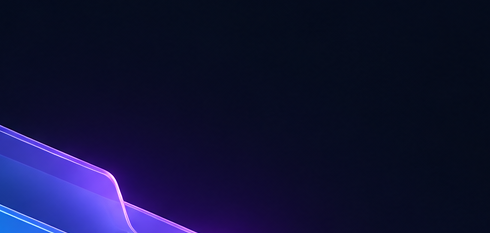
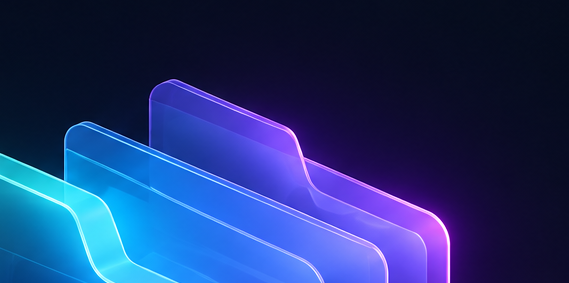
Rename platform to StackSync across frontend, backend, and documentation

diff --git a/frontend/src/app/help/page.tsx b/frontend/src/app/help/page.tsx
@@ -83,7 +83,7 @@ export default function HelpPage() {
               <span>Multi-Tier 3× EC2 Architecture Overview</span>
             </h2>
             <p style={{ color: "#94a3b8", fontSize: "14px", lineHeight: "1.6", marginBottom: "20px" }}>
-              MiniAWS is engineered on a distributed 3-tier enterprise cloud topology deployed across AWS EC2 instances in the <code>eu-central-1</code> (Frankfurt) region:
+              StackSync is engineered on a distributed 3-tier enterprise cloud topology deployed across AWS EC2 instances in the <code>eu-central-1</code> (Frankfurt) region:
             </p>
 
             <div style={{ display: "grid", gridTemplateColumns: "repeat(3, 1fr)", gap: "16px" }}>
@@ -160,7 +160,7 @@ export default function HelpPage() {
               <span>Connecting via Windows Remote Desktop (XRDP GUI)</span>
             </h2>
             <p style={{ color: "#94a3b8", fontSize: "14px", lineHeight: "1.6", marginBottom: "20px" }}>
-              Every EC2 instance in MiniAWS has been provisioned with the ultra-responsive, lightweight <strong>XFCE 4.18 Desktop Environment</strong> and configured with <strong>XRDP</strong> listening on port <code>3389</code>.
+              Every EC2 instance in StackSync has been provisioned with the ultra-responsive, lightweight <strong>XFCE 4.18 Desktop Environment</strong> and configured with <strong>XRDP</strong> listening on port <code>3389</code>.
             </p>
 
             {/* Credentials Banner */}

diff --git a/frontend/src/app/web-hosting/page.tsx b/frontend/src/app/web-hosting/page.tsx
@@ -37,7 +37,7 @@ const DEFAULT_SAMPLE_HTML = `<!DOCTYPE html>
 <html lang="en">
 <head>
   <meta charset="UTF-8">
-  <title>Welcome to Mini AWS Hosted Site</title>
+  <title>Welcome to StackSync Hosted Site</title>
   <style>
     body {
       background: #090e1a;
@@ -76,7 +76,7 @@ const DEFAULT_SAMPLE_HTML = `<!DOCTYPE html>
   </style>
 </head>
 <body>
-  <div class="badge">🚀 Hosted on Mini AWS Data Tier</div>
+  <div class="badge">🚀 Hosted on StackSync Data Tier</div>
   <h1>Hello from Cloud Static Hosting!</h1>
   <p>This static website is served directly from Nginx running on EC2 Instance 2 (Data Tier) with instant deployment.</p>
 </body>
@@ -385,7 +385,7 @@ export default function WebHostingPage() {
         >
           <img
             src="/web-hosting-3d-graphic.png"
-            alt="MiniAWS Web Hosting"
+            alt="StackSync Web Hosting"
             style={{
               height: "115px",
               objectFit: "contain",
@@ -635,7 +635,7 @@ export default function WebHostingPage() {
                 websites.map((site) => {
                   const isMenuOpen = actionMenuOpenId === site.id;
                   const isCopied = copiedId === site.id;
-                  const siteUrl = site.domain_url || site.site_url || `https://${site.subdomain}.miniaws.cloud`;
+                  const siteUrl = site.domain_url || site.site_url || `https://${site.subdomain}.stacksync.cloud`;
 
                   return (
                     <div

diff --git a/frontend/src/app/login/page.tsx b/frontend/src/app/login/page.tsx
@@ -75,7 +75,7 @@ export default function LoginPage() {
             }}
           >
             <Sparkles size={14} className="spin-slow" />
-            <span>MiniAWS Multi-Cloud Fabric • eu-central-1</span>
+            <span>StackSync Multi-Cloud Fabric • eu-central-1</span>
           </div>
 
           <h1
@@ -247,7 +247,7 @@ export default function LoginPage() {
               <Cloud size={30} color="#38bdf8" />
             </div>
             <h2 style={{ fontSize: "24px", fontWeight: 800, color: "#fff", letterSpacing: "-0.02em" }}>
-              Sign in to Mini AWS
+              Sign in to StackSync
             </h2>
             <p style={{ color: "#94a3b8", fontSize: "13px", marginTop: "4px" }}>
               Enter your tenant credentials to access the cloud console
@@ -348,7 +348,7 @@ export default function LoginPage() {
 
           {/* Register Link */}
           <div style={{ marginTop: "22px", textAlign: "center", fontSize: "13px", color: "#94a3b8" }}>
-            Don't have a MiniAWS tenant account?{" "}
+            Don't have a StackSync tenant account?{" "}
             <Link href="/register" style={{ color: "#38bdf8", fontWeight: 700, textDecoration: "none" }}>
               Create an account →
             </Link>

diff --git a/frontend/src/app/settings/page.tsx b/frontend/src/app/settings/page.tsx
@@ -63,7 +63,7 @@ export default function SettingsPage() {
 
   const currentUser = user || {
     full_name: "Abhishek Hardaha",
-    email: "abhishek@miniaws.cloud",
+    email: "abhishek@stacksync.cloud",
     username: "abhishek",
     id: "usr_cloud_admin"
   };
@@ -239,7 +239,7 @@ export default function SettingsPage() {
             <h3 style={{ fontSize: "16px", fontWeight: 700, color: "#fff" }}>API Access Token (JWT)</h3>
           </div>
           <p style={{ fontSize: "12px", color: "#94a3b8", lineHeight: "1.5", marginBottom: "16px" }}>
-            Use this bearer token to authenticate programmatic REST API calls to the MiniAWS gateway from external scripts or CLI.
+            Use this bearer token to authenticate programmatic REST API calls to the StackSync gateway from external scripts or CLI.
           </p>
 
           <div

diff --git a/frontend/src/app/functions/page.tsx b/frontend/src/app/functions/page.tsx
@@ -35,7 +35,7 @@ const TEMPLATES: Record<string, string> = {
     total = sum(data)
     average = total / len(data) if data else 0
     
-    print(f"MiniAWS Runner: Processing batch of {len(data)} items")
+    print(f"StackSync Runner: Processing batch of {len(data)} items")
     print(f"Calculated Total: {total}, Average: {average:.2f}")
     
     return {
@@ -76,7 +76,7 @@ const TEMPLATES: Record<string, string> = {
     print(f"Incoming {http_method} request for user: {name}")
     
     return {
-        "message": f"Hello, {name}! Welcome to Mini AWS Serverless.",
+        "message": f"Hello, {name}! Welcome to StackSync Serverless.",
         "method": http_method,
         "received_params": params
     }`,

diff --git a/frontend/src/components/Topbar.tsx b/frontend/src/components/Topbar.tsx
@@ -53,7 +53,7 @@ export default function Topbar() {
           className="search-input"
           onKeyDown={(e) => {
             if (e.key === "Enter") {
-              alert(`Searching Mini AWS resources for: "${(e.target as HTMLInputElement).value}"`);
+              alert(`Searching StackSync resources for: "${(e.target as HTMLInputElement).value}"`);
             }
           }}
         />

diff --git a/frontend/src/app/register/page.tsx b/frontend/src/app/register/page.tsx
@@ -241,7 +241,7 @@ export default function RegisterPage() {
               Create Cloud Account
             </h2>
             <p style={{ color: "#94a3b8", fontSize: "13px", marginTop: "4px" }}>
-              Provision your isolated developer workspace on Mini AWS
+              Provision your isolated developer workspace on StackSync
             </p>
           </div>
 

diff --git a/frontend/src/app/layout.tsx b/frontend/src/app/layout.tsx
@@ -2,8 +2,8 @@ import "@/styles/globals.css";
 import AppShell from "@/components/AppShell";
 
 export const metadata = {
-  title: "Mini AWS Cloud Platform",
-  description: "Lightweight Multi-Tier Cloud Console on AWS EC2",
+  title: "StackSync Cloud Platform",
+  description: "StackSync Multi-Tier Cloud Console on AWS EC2",
 };
 
 export default function RootLayout({

diff --git a/frontend/src/app/storage/page.tsx b/frontend/src/app/storage/page.tsx
@@ -352,7 +352,7 @@ export default function StoragePage() {
         >
           <img
             src="/storage-3d-folders.png"
-            alt="MiniAWS Storage"
+            alt="StackSync Storage"
             style={{
               height: "115px",
               objectFit: "contain",

diff --git a/frontend/src/lib/api.ts b/frontend/src/lib/api.ts
@@ -1,4 +1,4 @@
-// API Client for MiniAWS Console
+// API Client for StackSync Console
 
 const API_BASE = typeof window !== "undefined" 
   ? (process.env.NEXT_PUBLIC_API_URL || "")

diff --git a/backend/app/main.py b/backend/app/main.py
@@ -11,7 +11,7 @@ logger = logging.getLogger("MiniAWS-API")
 app = FastAPI(
     title=settings.PROJECT_NAME,
     version=settings.VERSION,
-    description="Mini AWS Multi-Tier Cloud Platform Backend & API Gateway"
+    description="StackSync Multi-Tier Cloud Platform Backend & API Gateway"
 )
 
 # CORS
@@ -36,7 +36,7 @@ def startup_event():
 def health():
     return {
         "status": "healthy",
-        "service": "MiniAWS Application Tier Backend & Gateway",
+        "service": "StackSync Application Tier Backend & Gateway",
         "version": settings.VERSION,
         "tiers": {
             "tier_1_app": settings.EC2_1_APP_IP,

diff --git a/backend/app/auth.py b/backend/app/auth.py
@@ -74,7 +74,7 @@ def get_current_user(
     # 3. Reject unauthenticated requests
     raise HTTPException(
         status_code=status.HTTP_401_UNAUTHORIZED,
-        detail="Authentication required. Please sign in to access Mini AWS.",
+        detail="Authentication required. Please sign in to access StackSync.",
         headers={"WWW-Authenticate": "Bearer"},
     )
 
